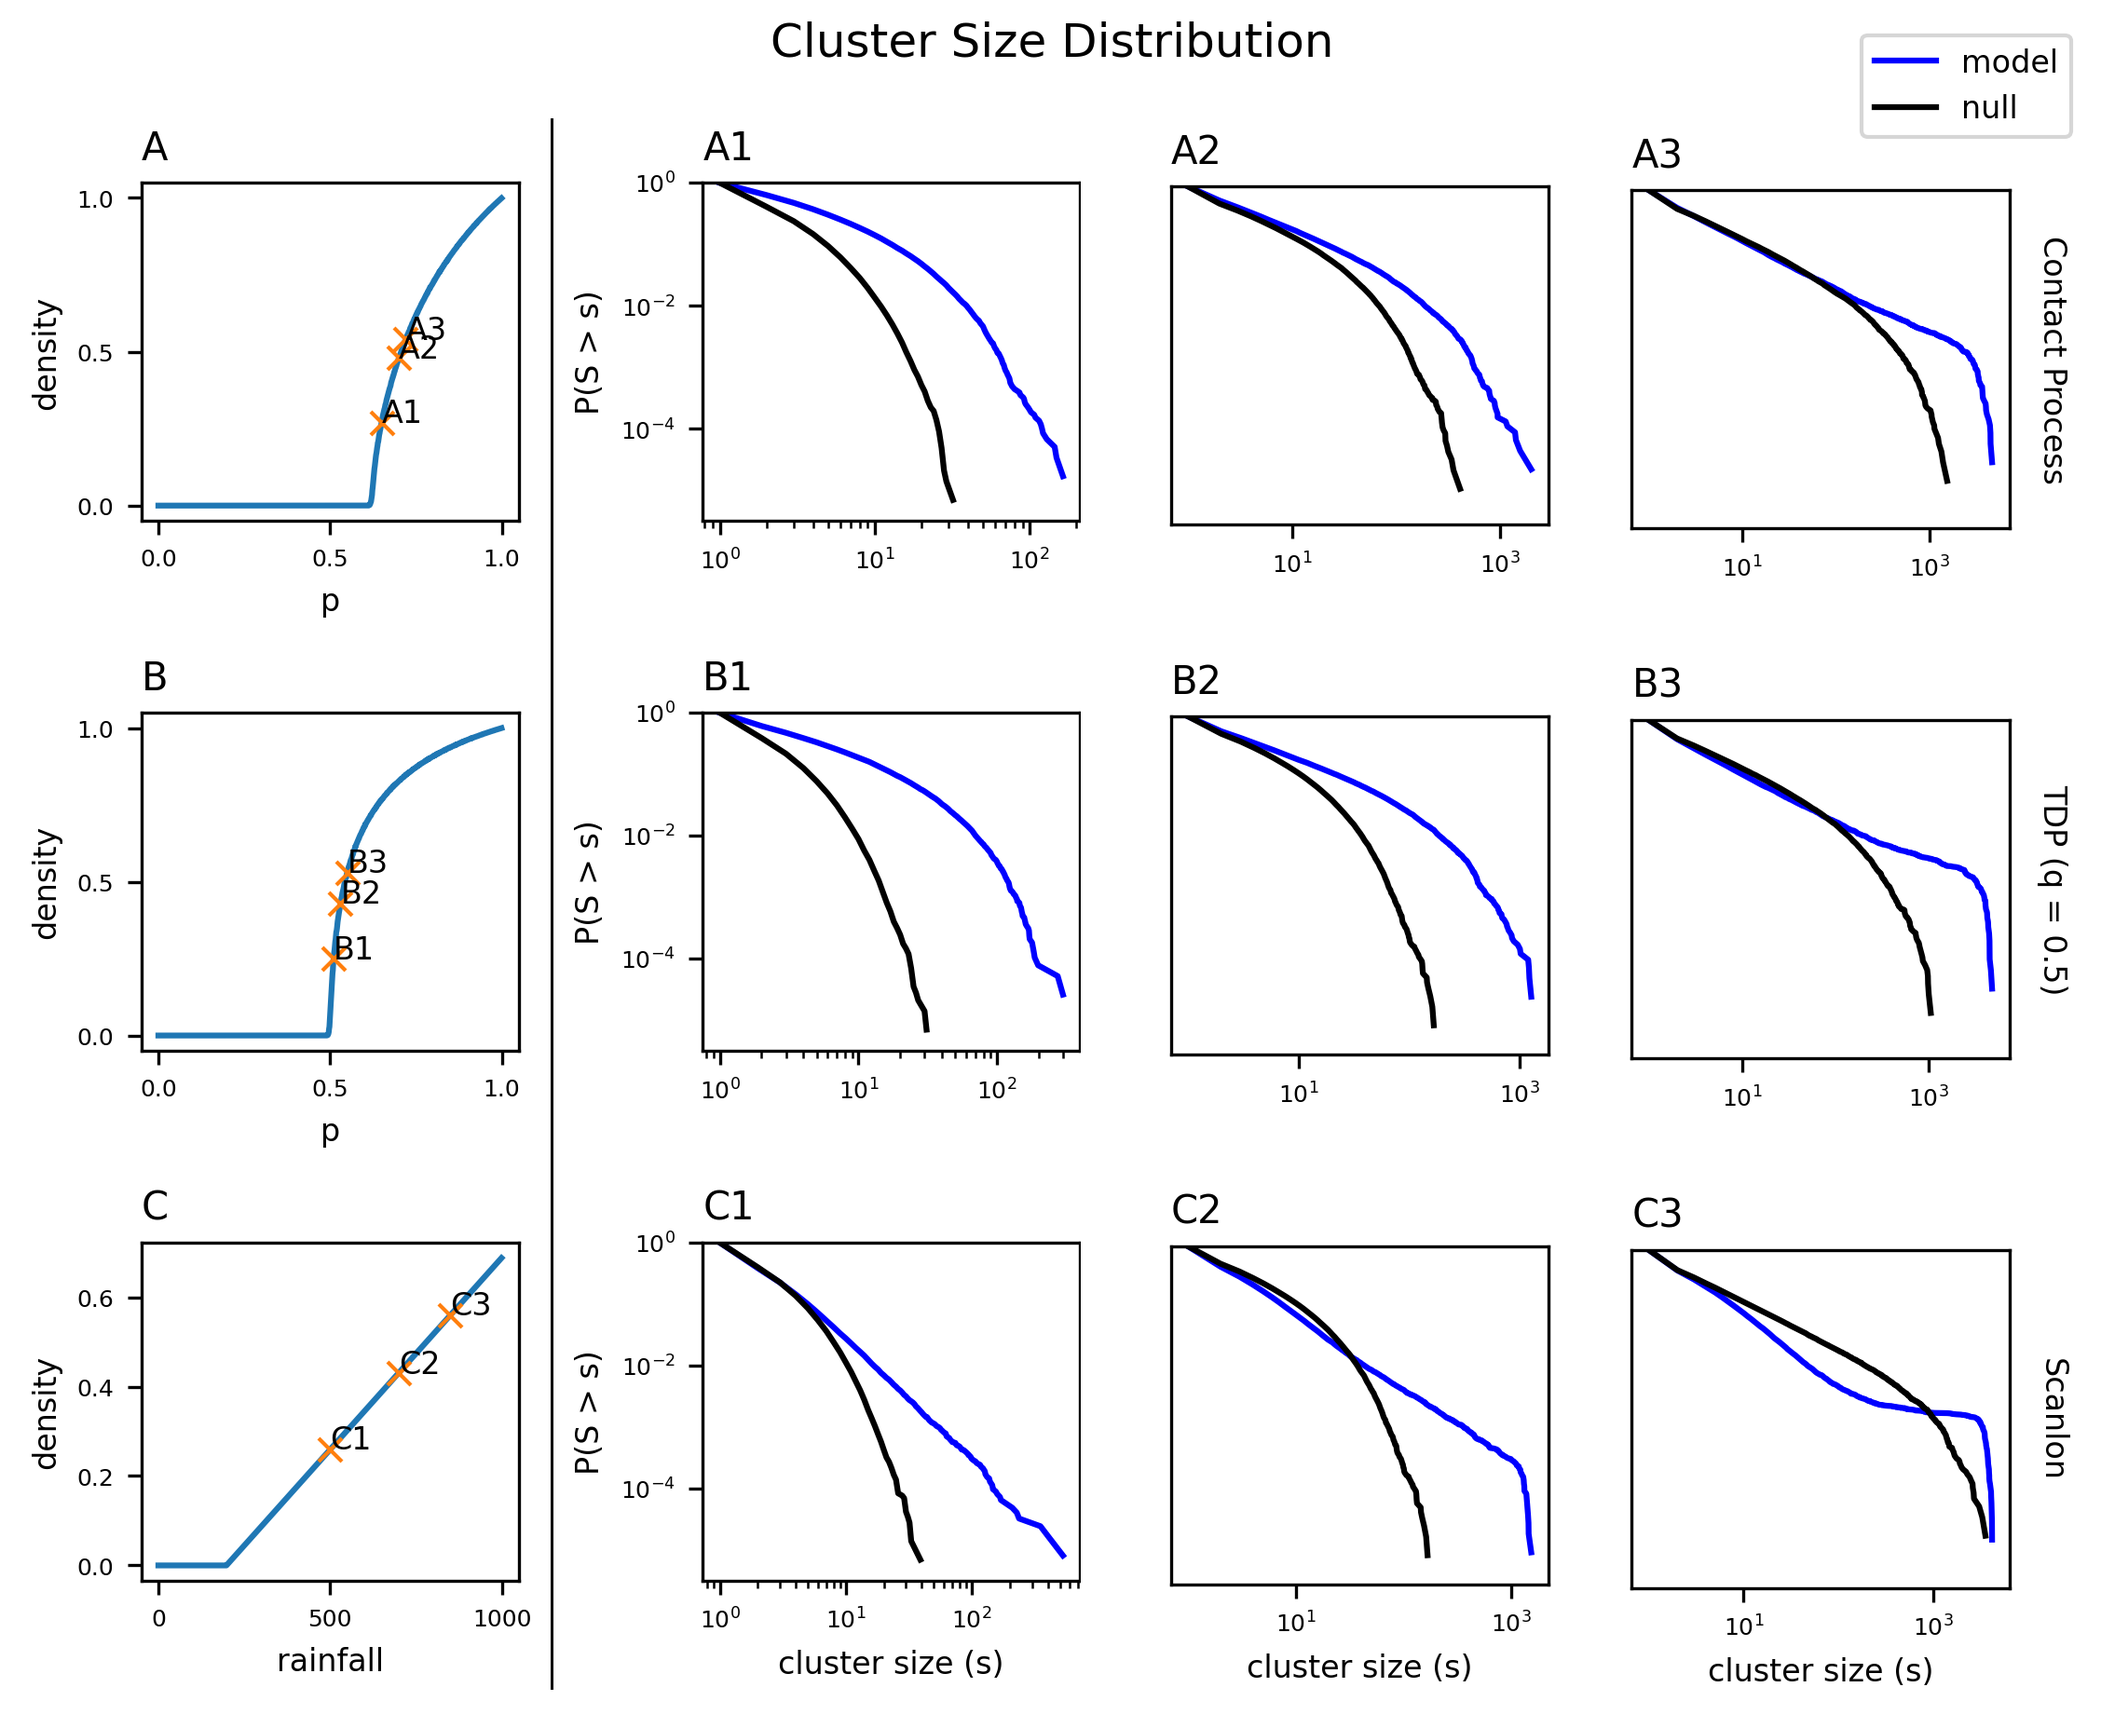
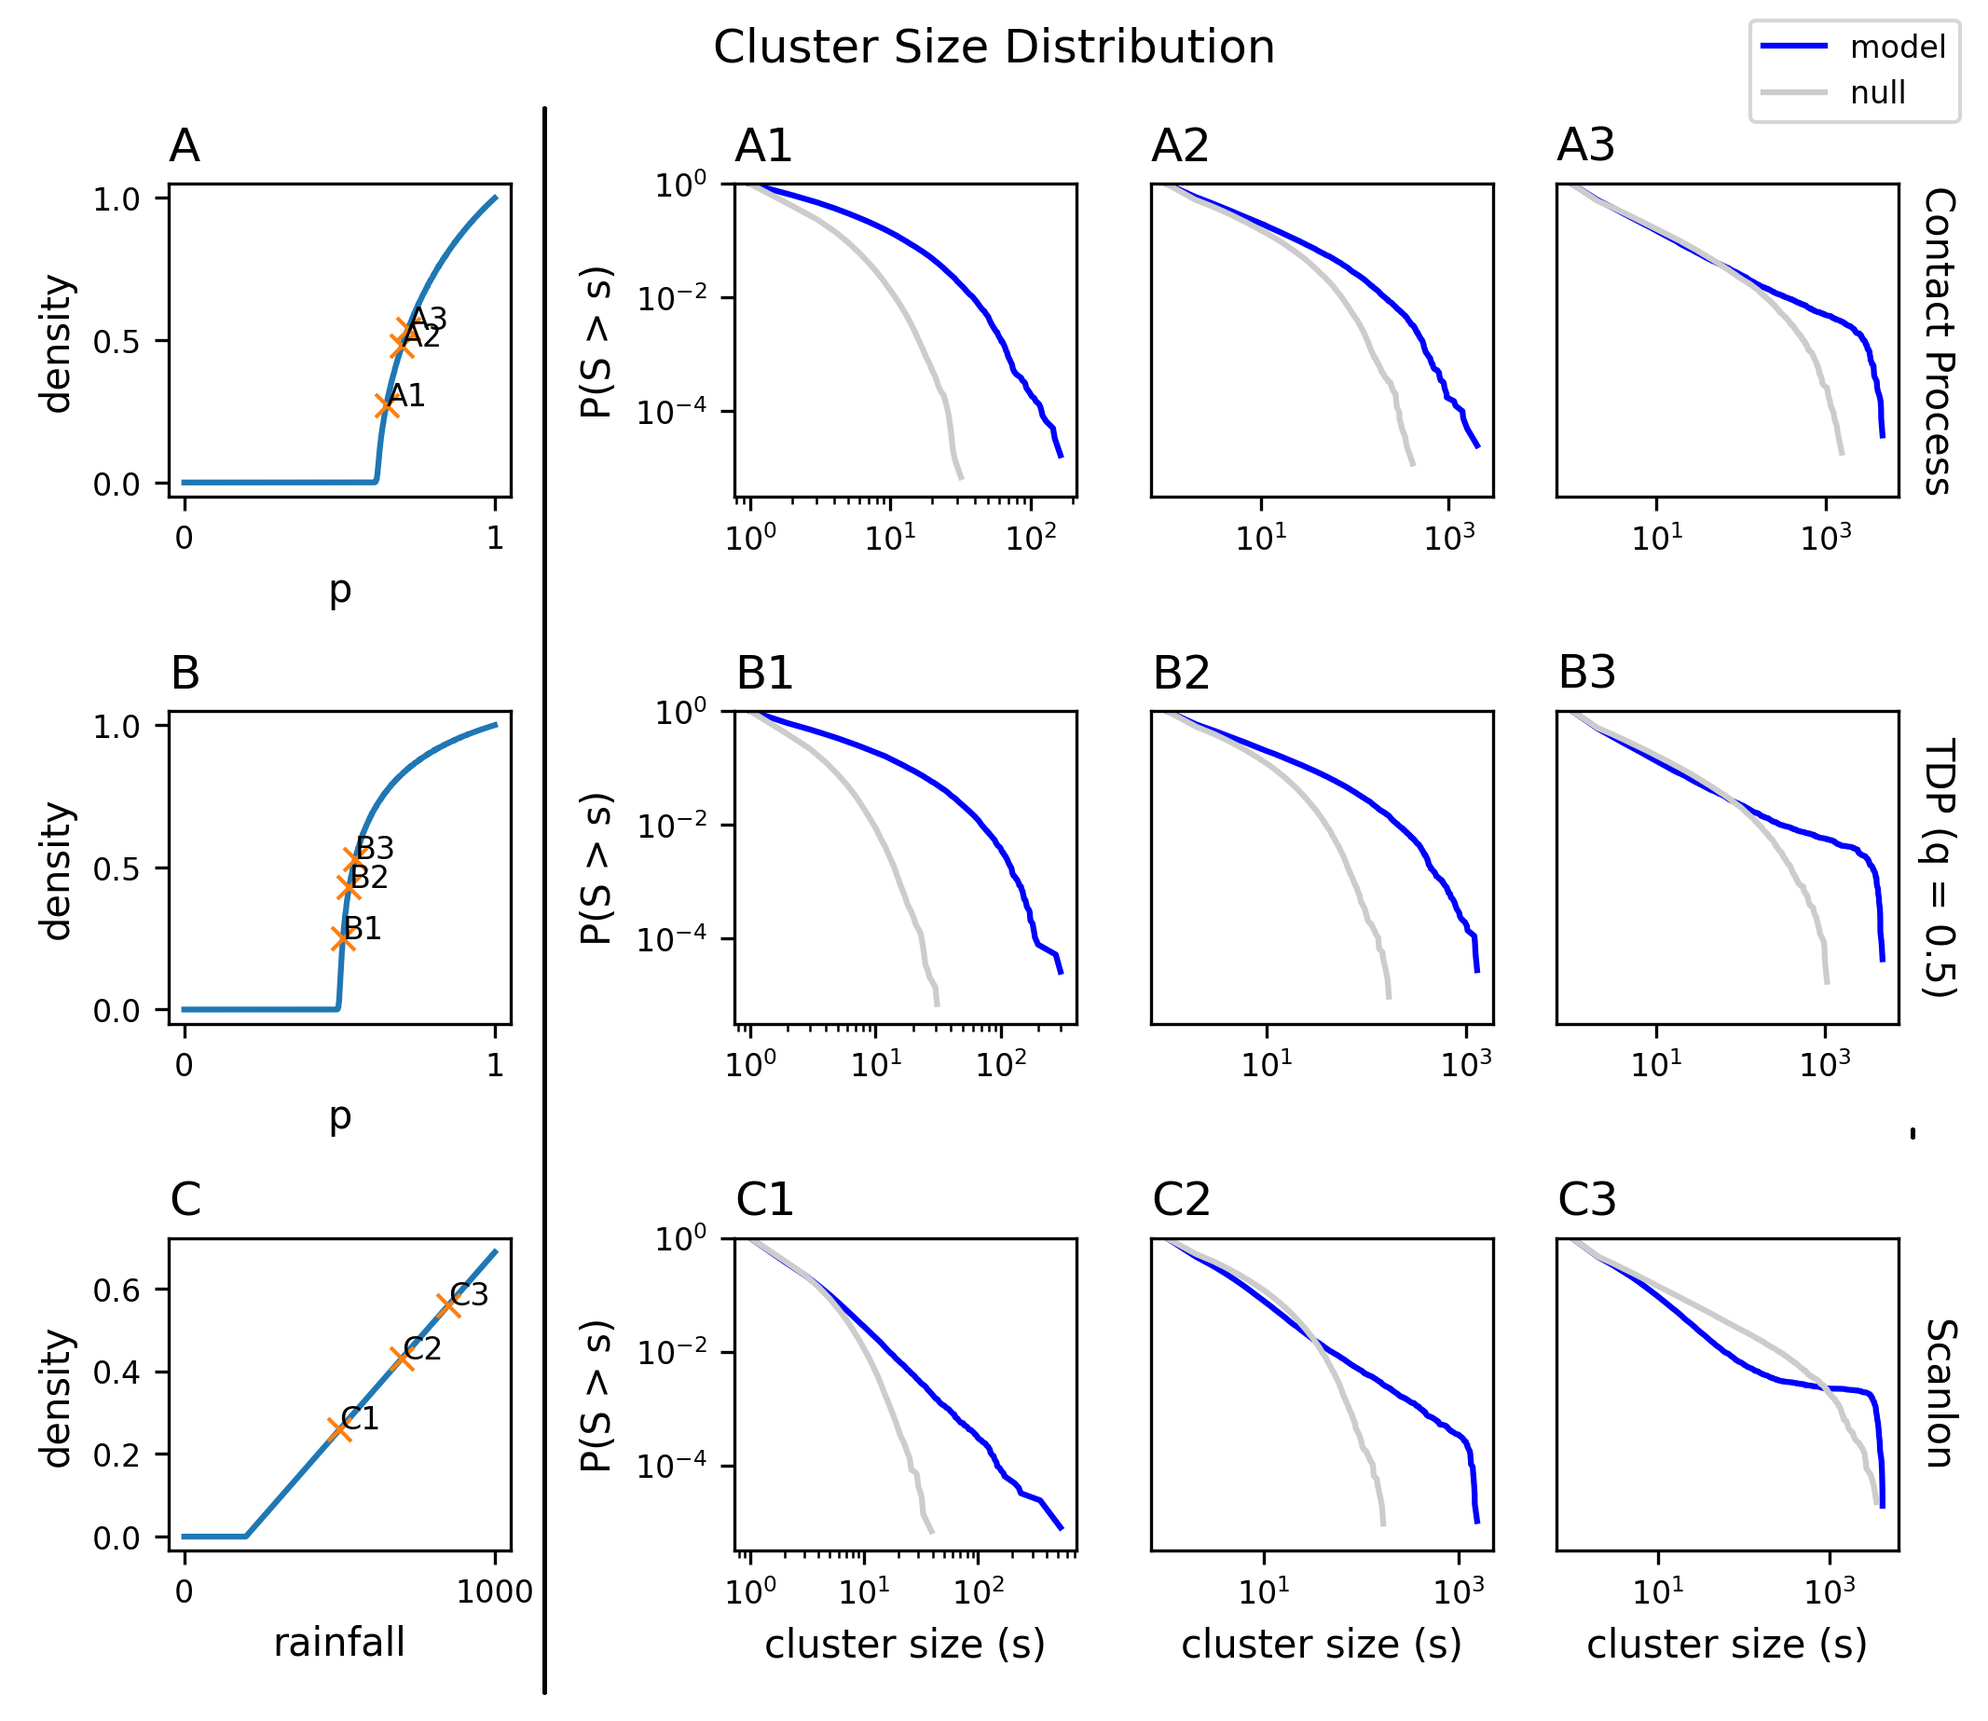
Init repo for sim on 47

diff --git a/plotters/fig1.py b/plotters/fig1.py
@@ -84,9 +84,9 @@ if __name__ == '__main__':
     # model_densities.append([0.24, 0.38, 0.52])
     # model_variables.append("p")
 
-    title_size = 10
-    label_size = 8
-    tick_size = 6
+    title_size = 12
+    label_size = 10
+    tick_size = 8
     legend_size = 8
 
     num_rows = len(models)
@@ -128,7 +128,7 @@ if __name__ == '__main__':
 
         annotations = [chr(65 + row) + str(k + 1) for k in range(num_cols)]
         for j in range(len(model_param)):
-            plt.annotate(annotations[j], (model_param[j], model_density[j]), fontsize=label_size)
+            plt.annotate(annotations[j], (model_param[j], model_density[j]), fontsize=label_size - 2)
 
         # distribution plots
         for j in range(len(model_param)):
@@ -156,10 +156,10 @@ if __name__ == '__main__':
 
             if row == 0 and j == 0:
                 plt.loglog(cluster_sizes, inverse_cdf, 'b-', label="model")
-                plt.loglog(null_cluster_sizes, null_inverse_cdf, 'k-', label="null")
+                plt.loglog(null_cluster_sizes, null_inverse_cdf, '0.7', label="null")
             else:
                 plt.loglog(cluster_sizes, inverse_cdf, 'b-')
-                plt.loglog(null_cluster_sizes, null_inverse_cdf, 'k-')
+                plt.loglog(null_cluster_sizes, null_inverse_cdf, '0.7')
             plt.xticks(fontsize=tick_size)
             plt.yticks(fontsize=tick_size)
 

diff --git a/plotters/fig2.py b/plotters/fig2.py
@@ -127,7 +127,7 @@ if __name__ == '__main__':
             if row == num_rows - 1:
                 plt.xlabel("change in cluster size ($\Delta$s)", fontsize=label_size)
             if j == 0:
-                plt.ylabel("cCDF of $\Delta$ s", fontsize=label_size)
+                plt.ylabel("P ($\Delta$S > $\Delta$s)", fontsize=label_size)
             if j == num_cols - 1:
                 plt.ylabel(model_name, fontsize=label_size, rotation=270, labelpad=15)
                 ax = plt.gca()
@@ -135,10 +135,10 @@ if __name__ == '__main__':
 
             if row == 0 and j == 0:
                 plt.loglog(cluster_sizes, inverse_cdf, "b-", label=f"model")
-                plt.loglog(null_cluster_sizes, null_inverse_cdf, "k-", label=f"null")
+                plt.loglog(null_cluster_sizes, null_inverse_cdf, "0.7", label=f"null")
             else:
                 plt.loglog(cluster_sizes, inverse_cdf, "b-")
-                plt.loglog(null_cluster_sizes, null_inverse_cdf, "k-")
+                plt.loglog(null_cluster_sizes, null_inverse_cdf, "0.7")
 
             plt.ylim(10 ** (-10), 1)
             if j == 0:

diff --git a/plotters/fig3.py b/plotters/fig3.py
@@ -106,10 +106,10 @@ if __name__ == '__main__':
 
             if row == 0 and j == 0:
                 plt.plot(cluster_sizes, mean_ds, 'b-', label=f"model")
-                plt.plot(null_cluster_sizes, null_mean_ds, 'k-', label=f"null")
+                plt.plot(null_cluster_sizes, null_mean_ds, '0.8', label=f"null")
             else:
                 plt.plot(cluster_sizes, mean_ds, 'b-')
-                plt.plot(null_cluster_sizes, null_mean_ds, 'k-')
+                plt.plot(null_cluster_sizes, null_mean_ds, '0.8')
             plt.axhline(y=0, linestyle="--")
 
             if j == 0:
@@ -117,7 +117,7 @@ if __name__ == '__main__':
             elif j == 1:
                 plt.xlim([0, 1000])
             elif j == 2:
-                plt.xlim([0, 4000])
+                plt.xlim([0, 5000])
 
             if j == num_cols - 1:
                 plt.ylabel(model_name, fontsize=label_size, rotation=270, labelpad=15)

diff --git a/terminal.py b/terminal.py
@@ -30,7 +30,7 @@ if __name__ == '__main__':
     set_start_method("spawn")
     num_simulations = cpu_count() - 1
 
-    rainfall_values = [850]
+    rainfall_values = [830]
 
     for rainfall in rainfall_values:
         purge_data()
@@ -39,3 +39,13 @@ if __name__ == '__main__':
         scanlon_kalahari(rainfall, num_simulations, save_series=False, save_cluster=True)
         compile_changes("scanlon_kalahari", range(num_simulations), plot_name=file_string, calc_residue=True)
         plot_changes(file_string, calc_residue=True)
+
+    f_values = [0.55, 0.56]
+
+    for f in f_values:
+        purge_data()
+        print(f"\n---> Simulating f = {f} <---")
+        file_string = str(f).replace('.', 'p')
+        null_stochastic(f, num_simulations, save_series=False, save_cluster=True)
+        compile_changes("null_stochastic", range(num_simulations), plot_name=file_string)
+        plot_changes(file_string)

diff --git a/plotters/fig4.py b/plotters/fig4.py
@@ -108,17 +108,17 @@ if __name__ == '__main__':
 
             if row == 0 and j == 0:
                 plt.plot(cluster_sizes, mean_ds_sq, 'b-', label=f"model")
-                plt.plot(null_cluster_sizes, null_mean_ds_sq, 'k-', label=f"null")
+                plt.plot(null_cluster_sizes, null_mean_ds_sq, '0.7', label=f"null")
             else:
                 plt.plot(cluster_sizes, mean_ds_sq, 'b-')
-                plt.plot(null_cluster_sizes, null_mean_ds_sq, 'k-')
+                plt.plot(null_cluster_sizes, null_mean_ds_sq, '0.7')
 
             if j == 0:
                 plt.xlim([0, 200])
             if j == 1:
                 plt.xlim([0, 1500])
             if j == 2:
-                plt.xlim([0, 4000])
+                plt.xlim([0, 5000])
 
             if j == num_cols - 1:
                 plt.ylabel(model_name, fontsize=label_size, rotation=270, labelpad=15)
